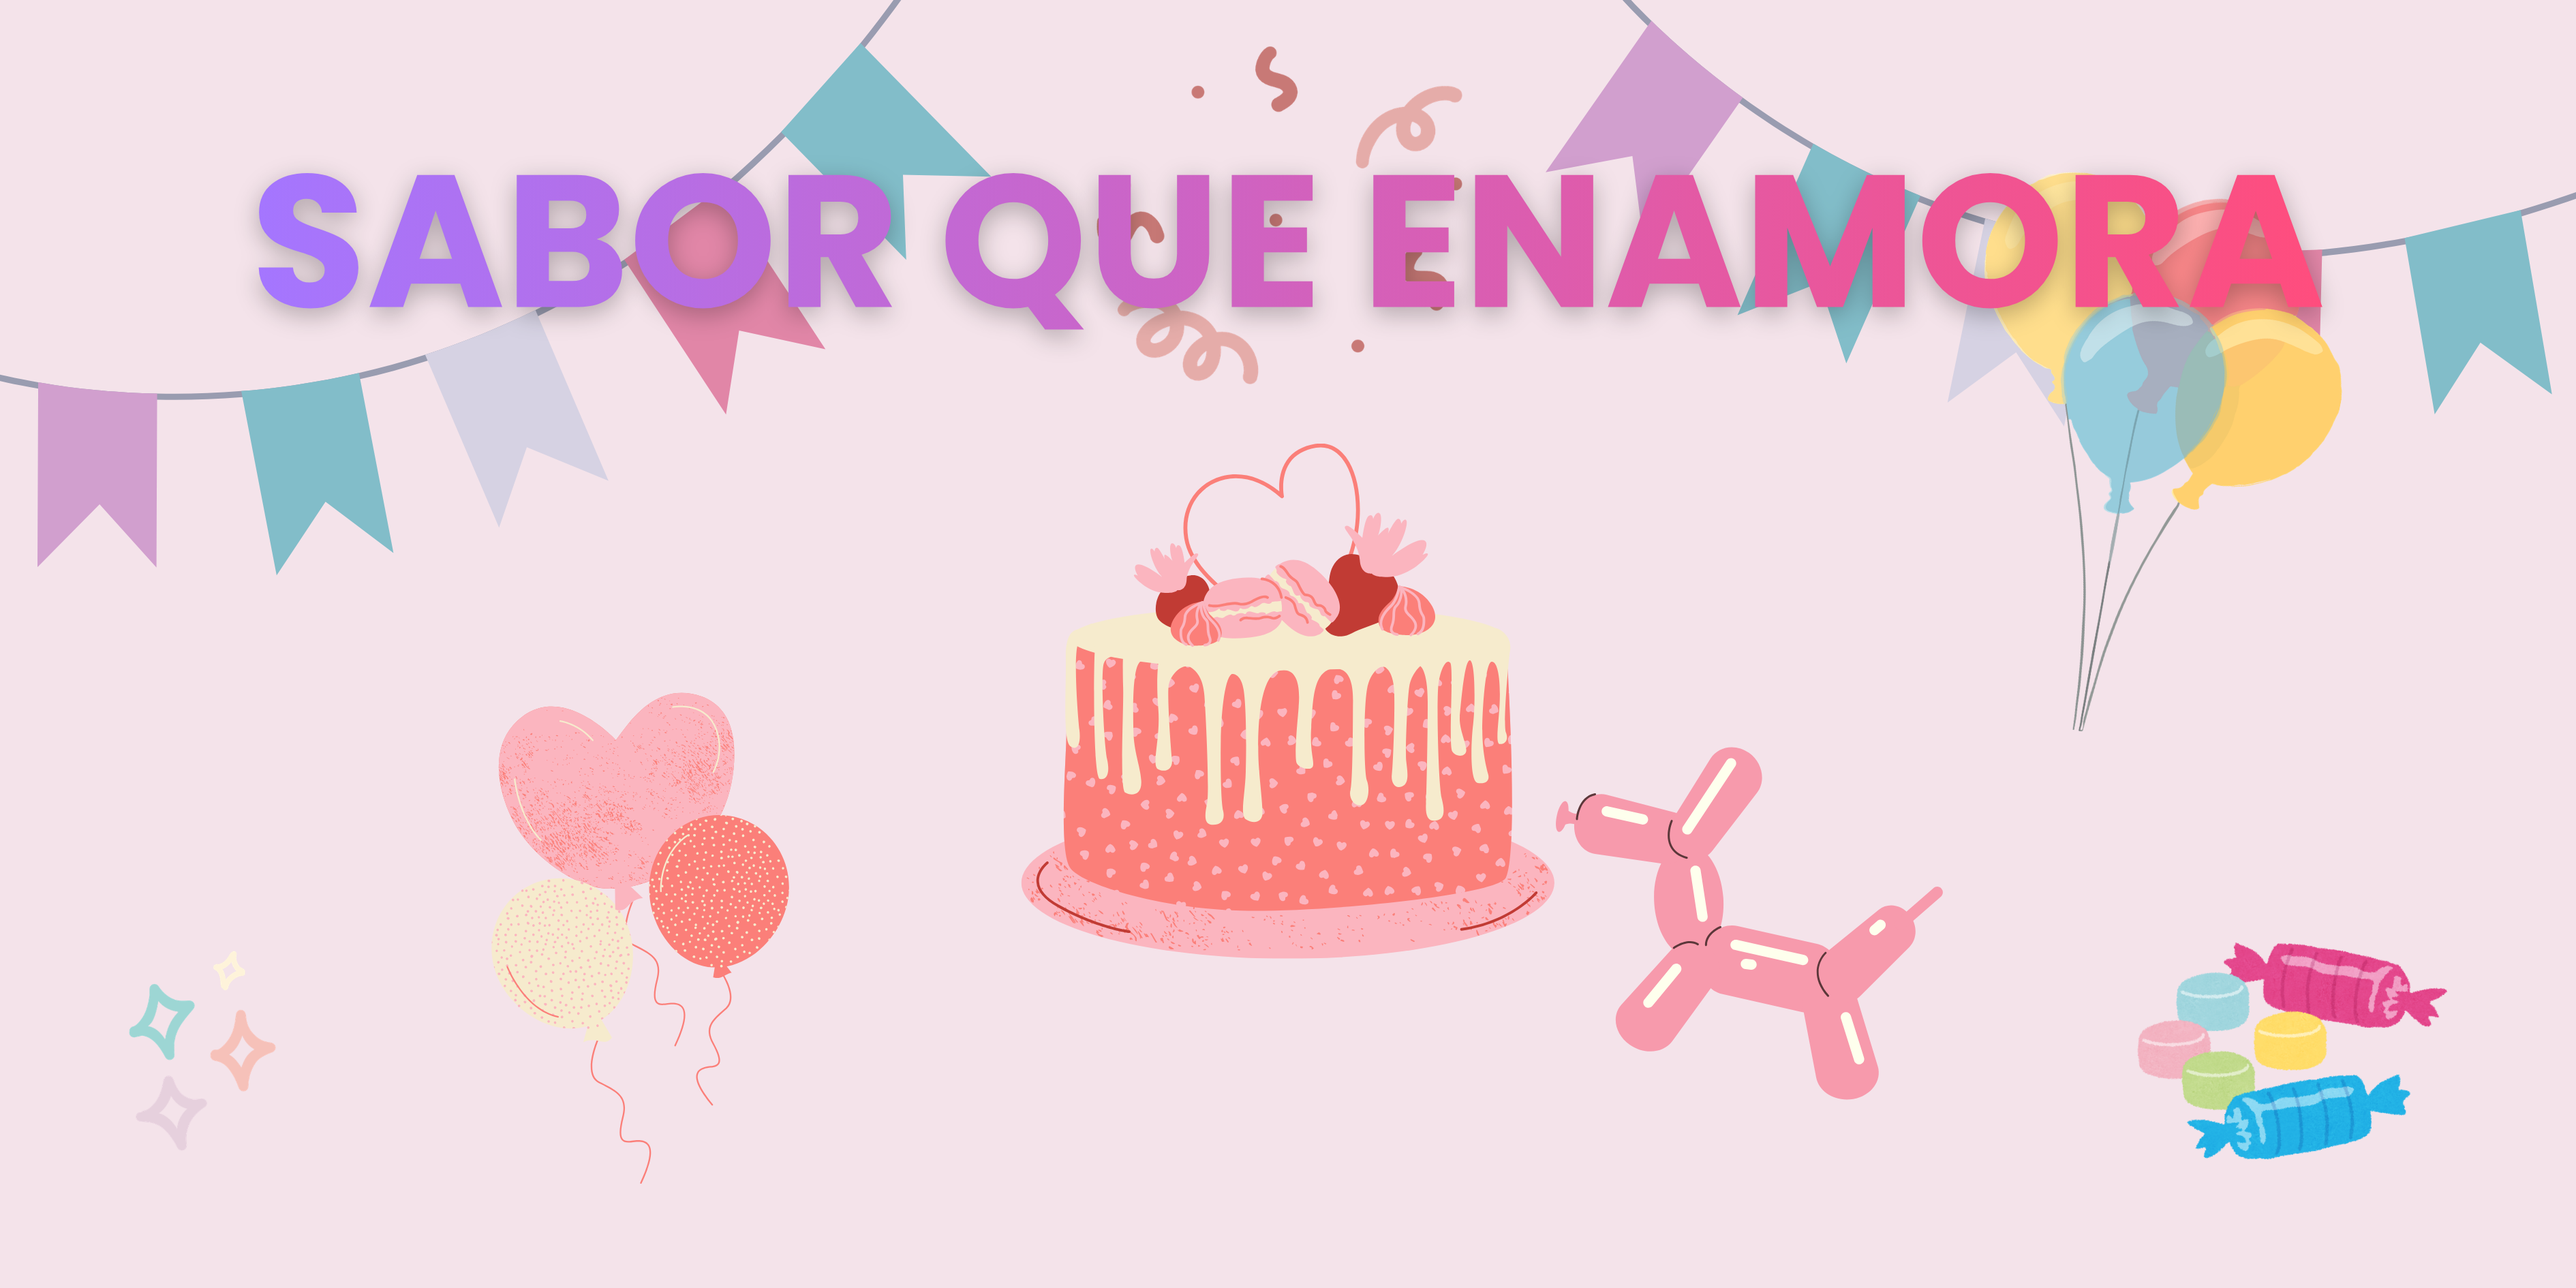
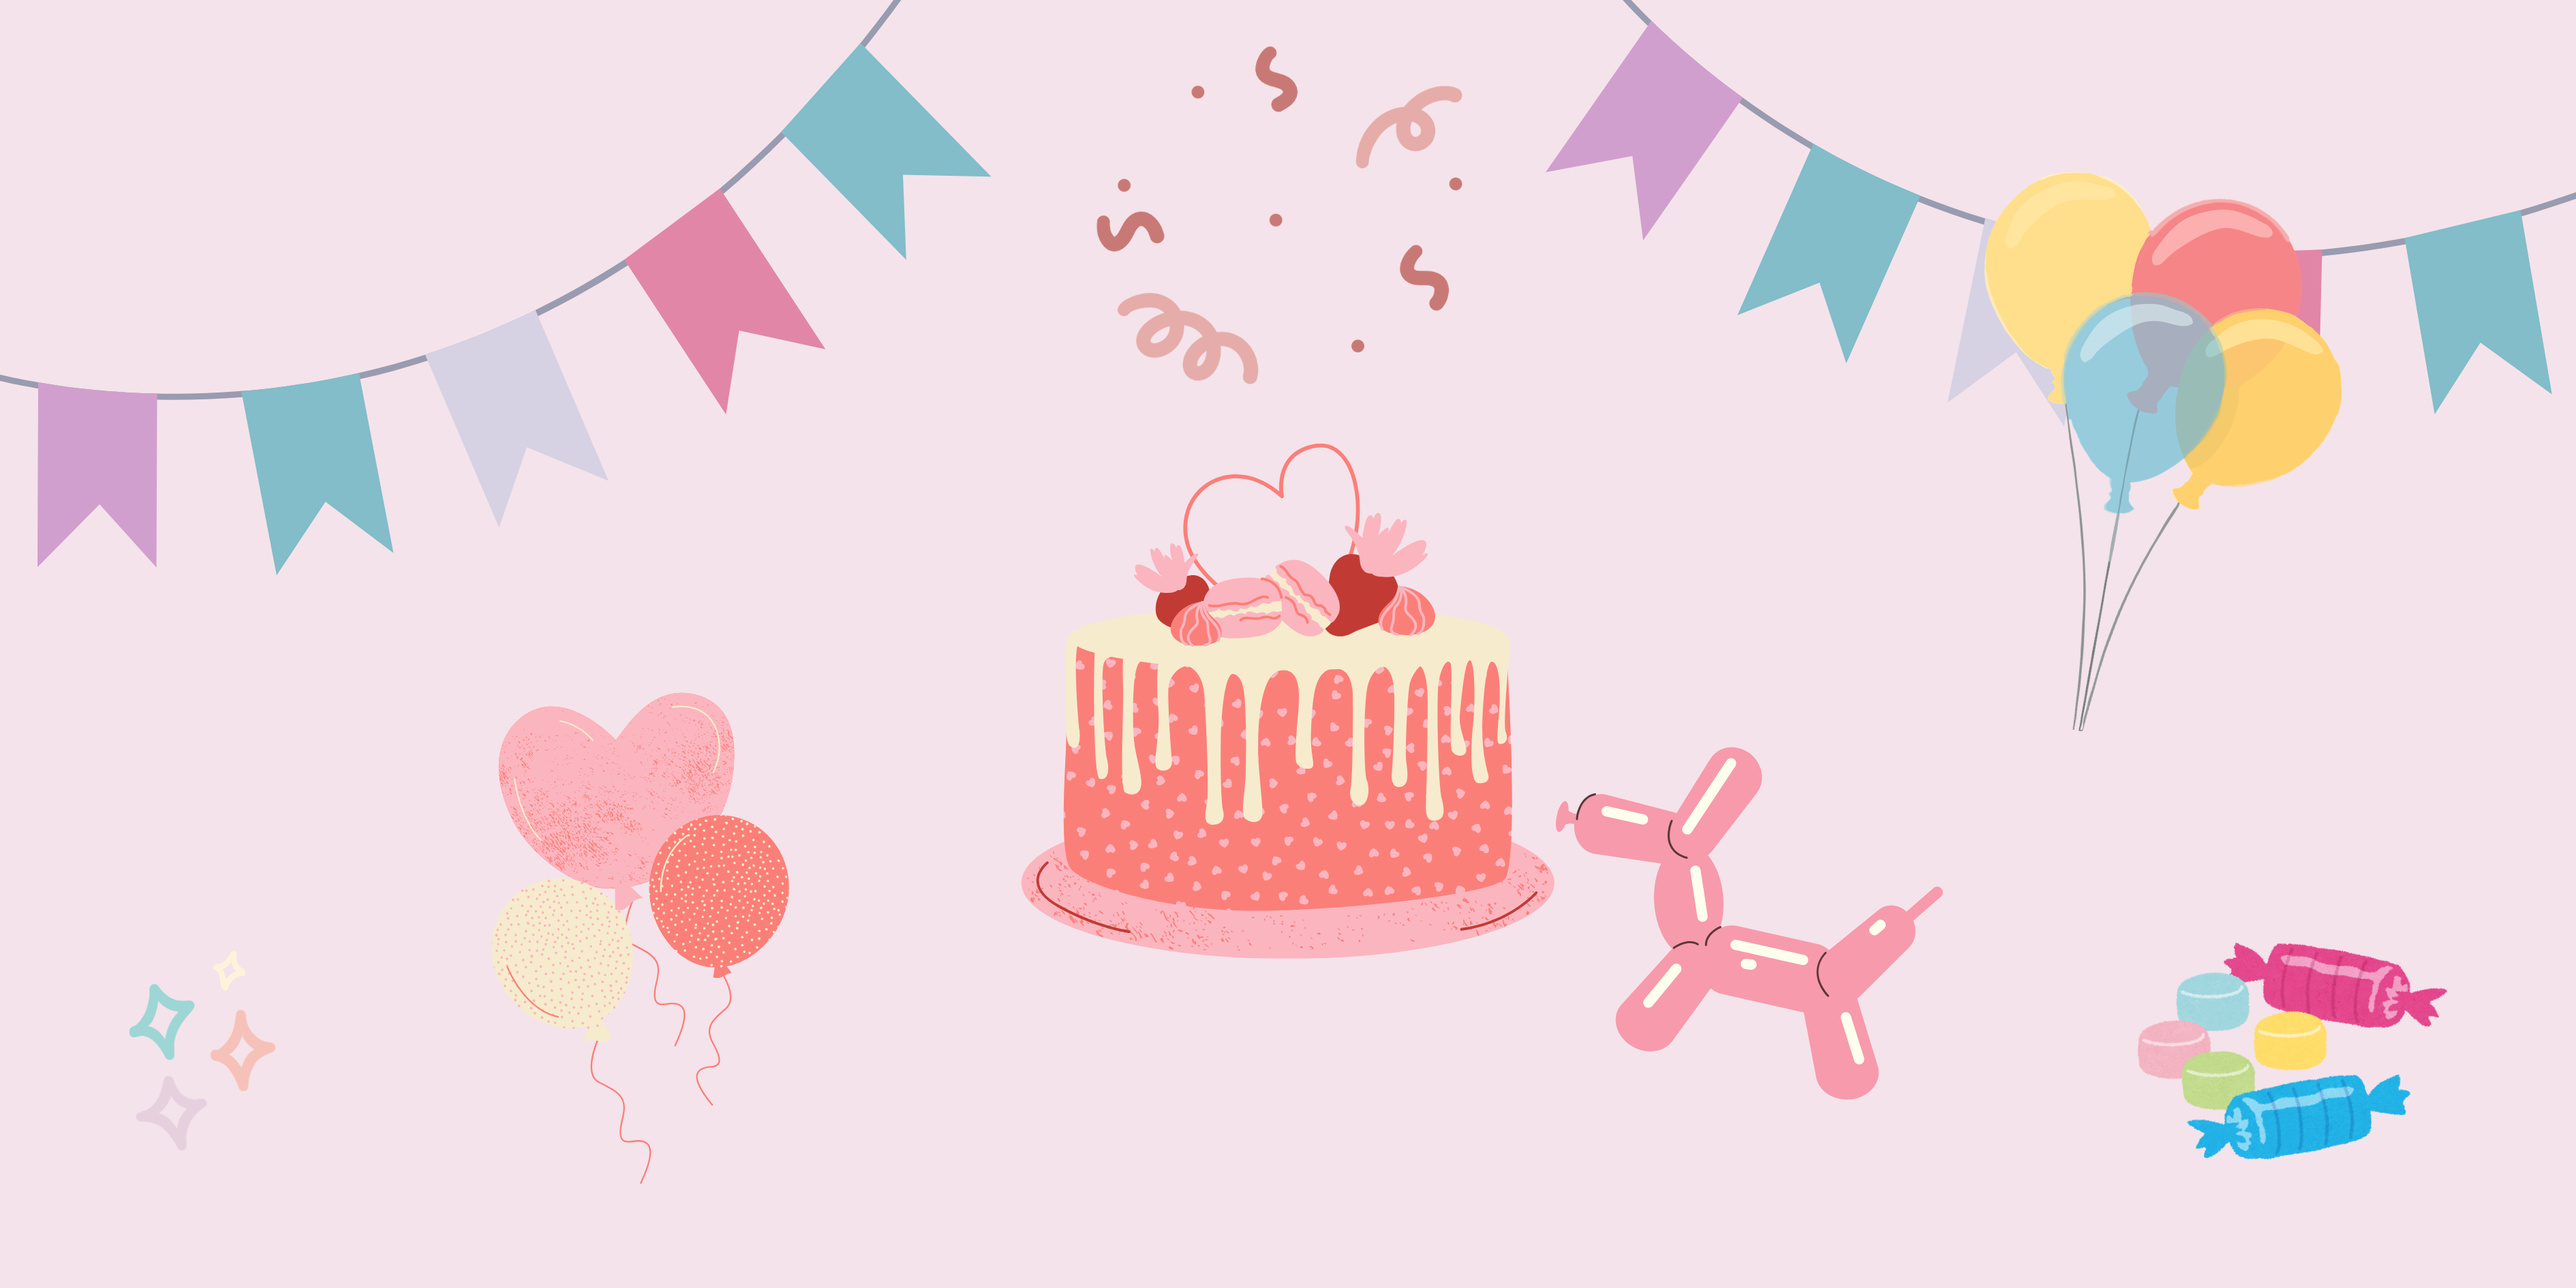
agregar: Pie de pagina y imagen en el formulario de registro

Changed region(s): [[0.0937, 0.1249, 0.9053, 0.281]]

diff --git a/src/components/Footer.tsx b/src/components/Footer.tsx
@@ -1,0 +1,42 @@
+
+export default function Footer() {
+    return (
+    <footer className="bg-gray-900 text-gray-300 px-6 py-10 mt-auto">
+        <div className="max-w-4xl mx-auto flex flex-col sm:flex-row justify-between gap-8">
+        <div className="flex items-center gap-3">
+            <span className="text-3xl">🍰</span>
+            <p className="text-sm">
+            Postres App
+            <br />
+            <span className="text-gray-400">Postres artesanales hechos con amor</span>
+            </p>
+        </div>
+
+        <div className="flex flex-col gap-2">
+            <h6 className="text-white font-semibold text-sm uppercase tracking-wide">Síguenos</h6>
+            <div className="flex gap-4">
+            <a href="#" aria-label="Instagram" className="hover:text-pink-400 transition-colors">
+                <svg xmlns="http://www.w3.org/2000/svg" width="22" height="22" viewBox="0 0 24 24" className="fill-current">
+                <path d="M12 2c2.717 0 3.056.01 4.122.06 1.065.05 1.79.217 2.428.465.66.254 1.216.598 1.772 1.153.509.5.902 1.105 1.153 1.772.247.637.415 1.363.465 2.428.047 1.066.06 1.405.06 4.122 0 2.717-.01 3.056-.06 4.122-.05 1.065-.218 1.79-.465 2.428a4.883 4.883 0 01-1.153 1.772c-.5.508-1.105.902-1.772 1.153-.637.247-1.363.415-2.428.465-1.066.047-1.405.06-4.122.06-2.717 0-3.056-.01-4.122-.06-1.065-.05-1.79-.218-2.428-.465a4.89 4.89 0 01-1.772-1.153 4.904 4.904 0 01-1.153-1.772c-.248-.637-.415-1.363-.465-2.428C2.013 15.056 2 14.717 2 12c0-2.717.01-3.056.06-4.122.05-1.066.217-1.79.465-2.428a4.88 4.88 0 011.153-1.772A4.897 4.897 0 015.45 2.525c.638-.248 1.362-.415 2.428-.465C8.944 2.013 9.283 2 12 2z"></path>
+                </svg>
+            </a>
+            <a href="#" aria-label="Facebook" className="hover:text-pink-400 transition-colors">
+                <svg xmlns="http://www.w3.org/2000/svg" width="22" height="22" viewBox="0 0 24 24" className="fill-current">
+                <path d="M9 8h-3v4h3v12h5v-12h3.642l.358-4h-4v-1.667c0-.955.192-1.333 1.115-1.333h2.885v-5h-3.808c-3.596 0-5.192 1.583-5.192 4.615v3.385z"></path>
+                </svg>
+            </a>
+            <a href="#" aria-label="TikTok" className="hover:text-pink-400 transition-colors">
+                <svg xmlns="http://www.w3.org/2000/svg" width="22" height="22" viewBox="0 0 24 24" className="fill-current">
+                <path d="M19.615 3.184c-3.604-.246-11.631-.245-15.23 0-3.897.266-4.356 2.62-4.385 8.816.029 6.185.484 8.549 4.385 8.816 3.6.245 11.626.246 15.23 0 3.897-.266 4.356-2.62 4.385-8.816-.029-6.185-.484-8.549-4.385-8.816zm-10.615 12.816v-8l8 3.993-8 4.007z"></path>
+                </svg>
+            </a>
+            </div>
+        </div>
+        </div>
+
+        <p className="text-center text-xs text-gray-500 mt-8">
+        © {new Date().getFullYear()} Postres App. Todos los derechos reservados.
+        </p>
+    </footer>
+    );
+}

diff --git a/src/app/register/page.tsx b/src/app/register/page.tsx
@@ -5,6 +5,7 @@ import { useRouter } from "next/navigation";
 import { useAuth } from "@/context/AuthContext";
 import { toast } from "sonner";
 import Link from "next/link";
+import Image from "next/image";
 
 export default function RegisterPage() {
   const [fullName, setFullName] = useState("");
@@ -28,13 +29,23 @@ export default function RegisterPage() {
 
   return (
     <main className="flex min-h-screen items-center justify-center px-4 py-8 bg-pink-50">
-      <form
-        onSubmit={handleSubmit}
-        className="w-full max-w-sm bg-white p-5 sm:p-6 rounded-lg shadow-md flex flex-col gap-4">
+      <div className="w-full max-w-3xl bg-white rounded-2xl shadow-md overflow-hidden flex flex-col md:flex-row">
+        <div className="relative w-full aspect-square md:aspect-auto md:h-auto md:w-1/2">
+          <Image
+            src="/images/REGISTRO.png"
+            alt="Postres deliciosos"
+            fill
+            className="object-cover"
+          />
+        </div>
 
-        <Link href="/" className="text-pink-600 font-semibold">
-        Regresar
-        </Link>
+        <form
+          onSubmit={handleSubmit}
+          className="w-full md:w-1/2 p-5 sm:p-8 flex flex-col gap-4 justify-center"
+        >
+          <Link href="/" className="text-pink-600 text-sm font-semibold hover:underline self-start">
+            ← Regresar
+          </Link>
 
         <h1 className="text-xl font-bold text-center text-pink-700">Crear Cuenta</h1>
 
@@ -89,6 +100,7 @@ export default function RegisterPage() {
           </a>
         </p>
       </form>
+      </div>
     </main>
   );
 }

diff --git a/src/app/layout.tsx b/src/app/layout.tsx
@@ -5,6 +5,7 @@ import { AuthProvider } from "@/context/AuthContext";
 import { CarProvider } from "@/context/CarContext";
 import {Toaster} from "sonner";
 import Navbar from "@/components/Navbar";
+import Footer from "@/components/Footer";
 
 const geistSans = Geist({
   variable: "--font-geist-sans",
@@ -36,6 +37,7 @@ export default function RootLayout({
         <body className="min-h-full flex flex-col">
           <Navbar />
           {children}
+          <Footer />
           <Toaster position="top-center" richColors />
           </body>
         </CarProvider>

diff --git a/src/app/login/page.tsx b/src/app/login/page.tsx
@@ -29,7 +29,7 @@ export default function LoginPage() {
   return (
     <main className="flex min-h-screen items-center justify-center px-4 py-8 bg-pink-50">
       <div className="w-full max-w-3xl bg-white rounded-2xl shadow-md overflow-hidden flex flex-col md:flex-row">
-        <div className="relative w-full h-55 md:h-auto md:w-1/2">
+        <div className="relative w-full aspect-square md:aspect-auto md:h-auto md:w-1/2">
           <Image
             src="/images/BIENVENIDO.png"
             alt="Postres deliciosos"

diff --git a/src/components/Banner.tsx b/src/components/Banner.tsx
@@ -4,7 +4,7 @@ export default function Banner() {
     return (
     <div className="relative w-full h-70 sm:h-85 overflow-hidden">
         <Image
-        src="/images/banner-postres.png"
+        src="/images/Banner.png"
         alt="Postres artesanales"
         fill
         priority
